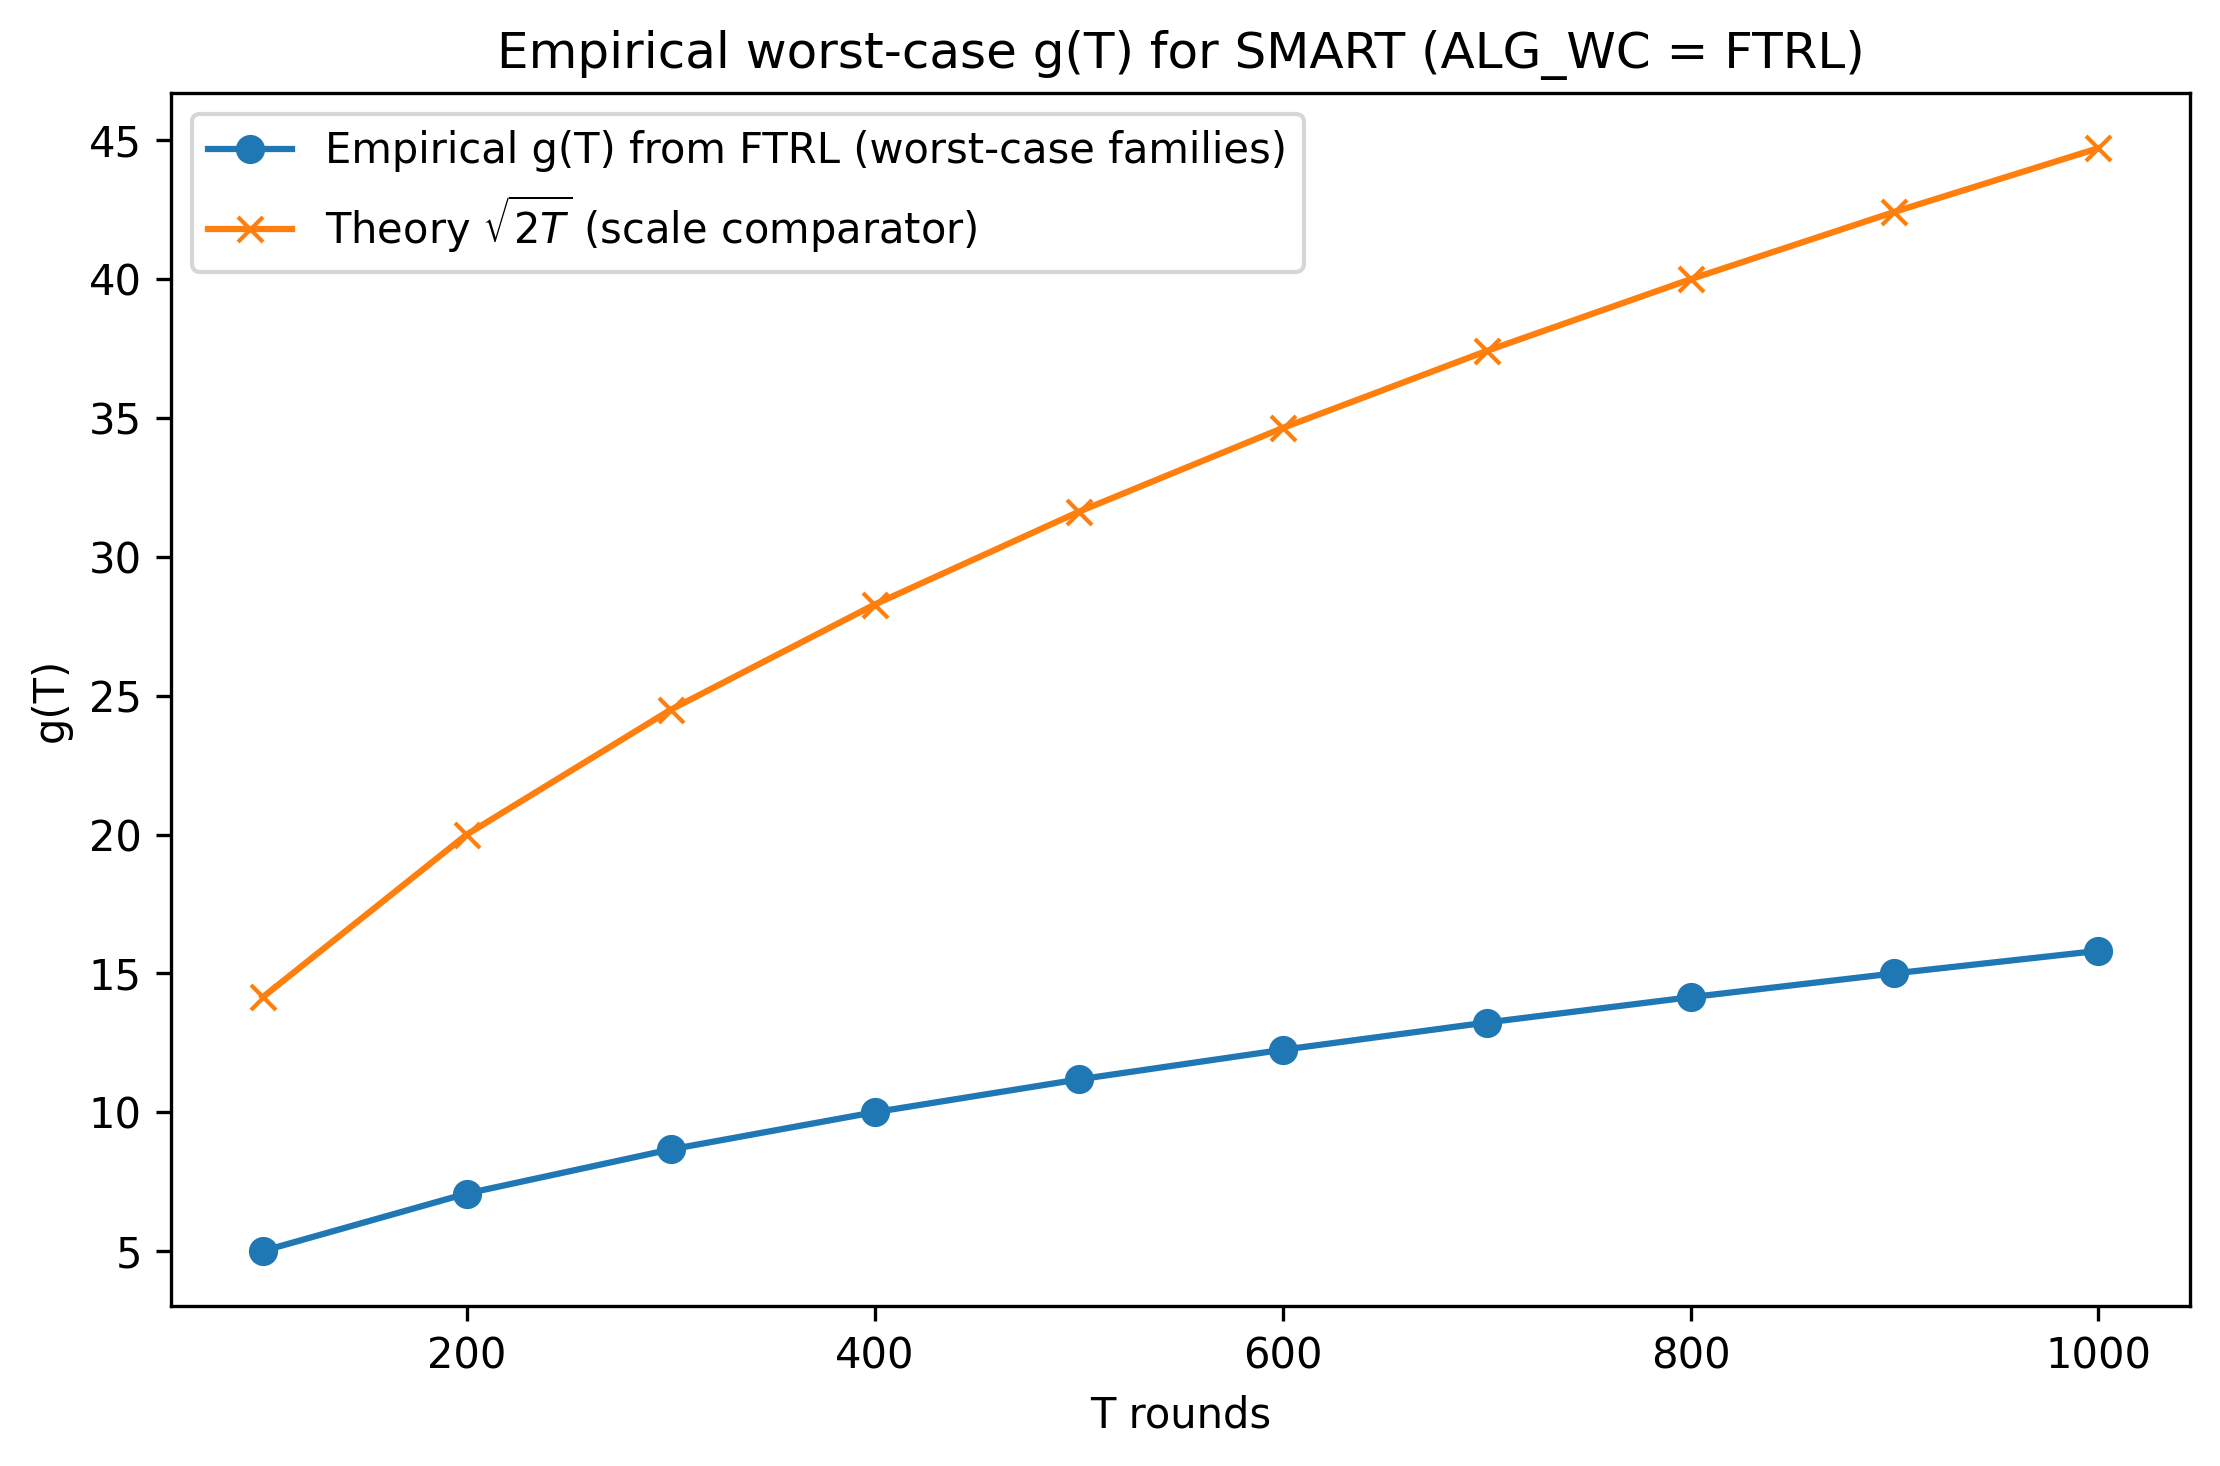
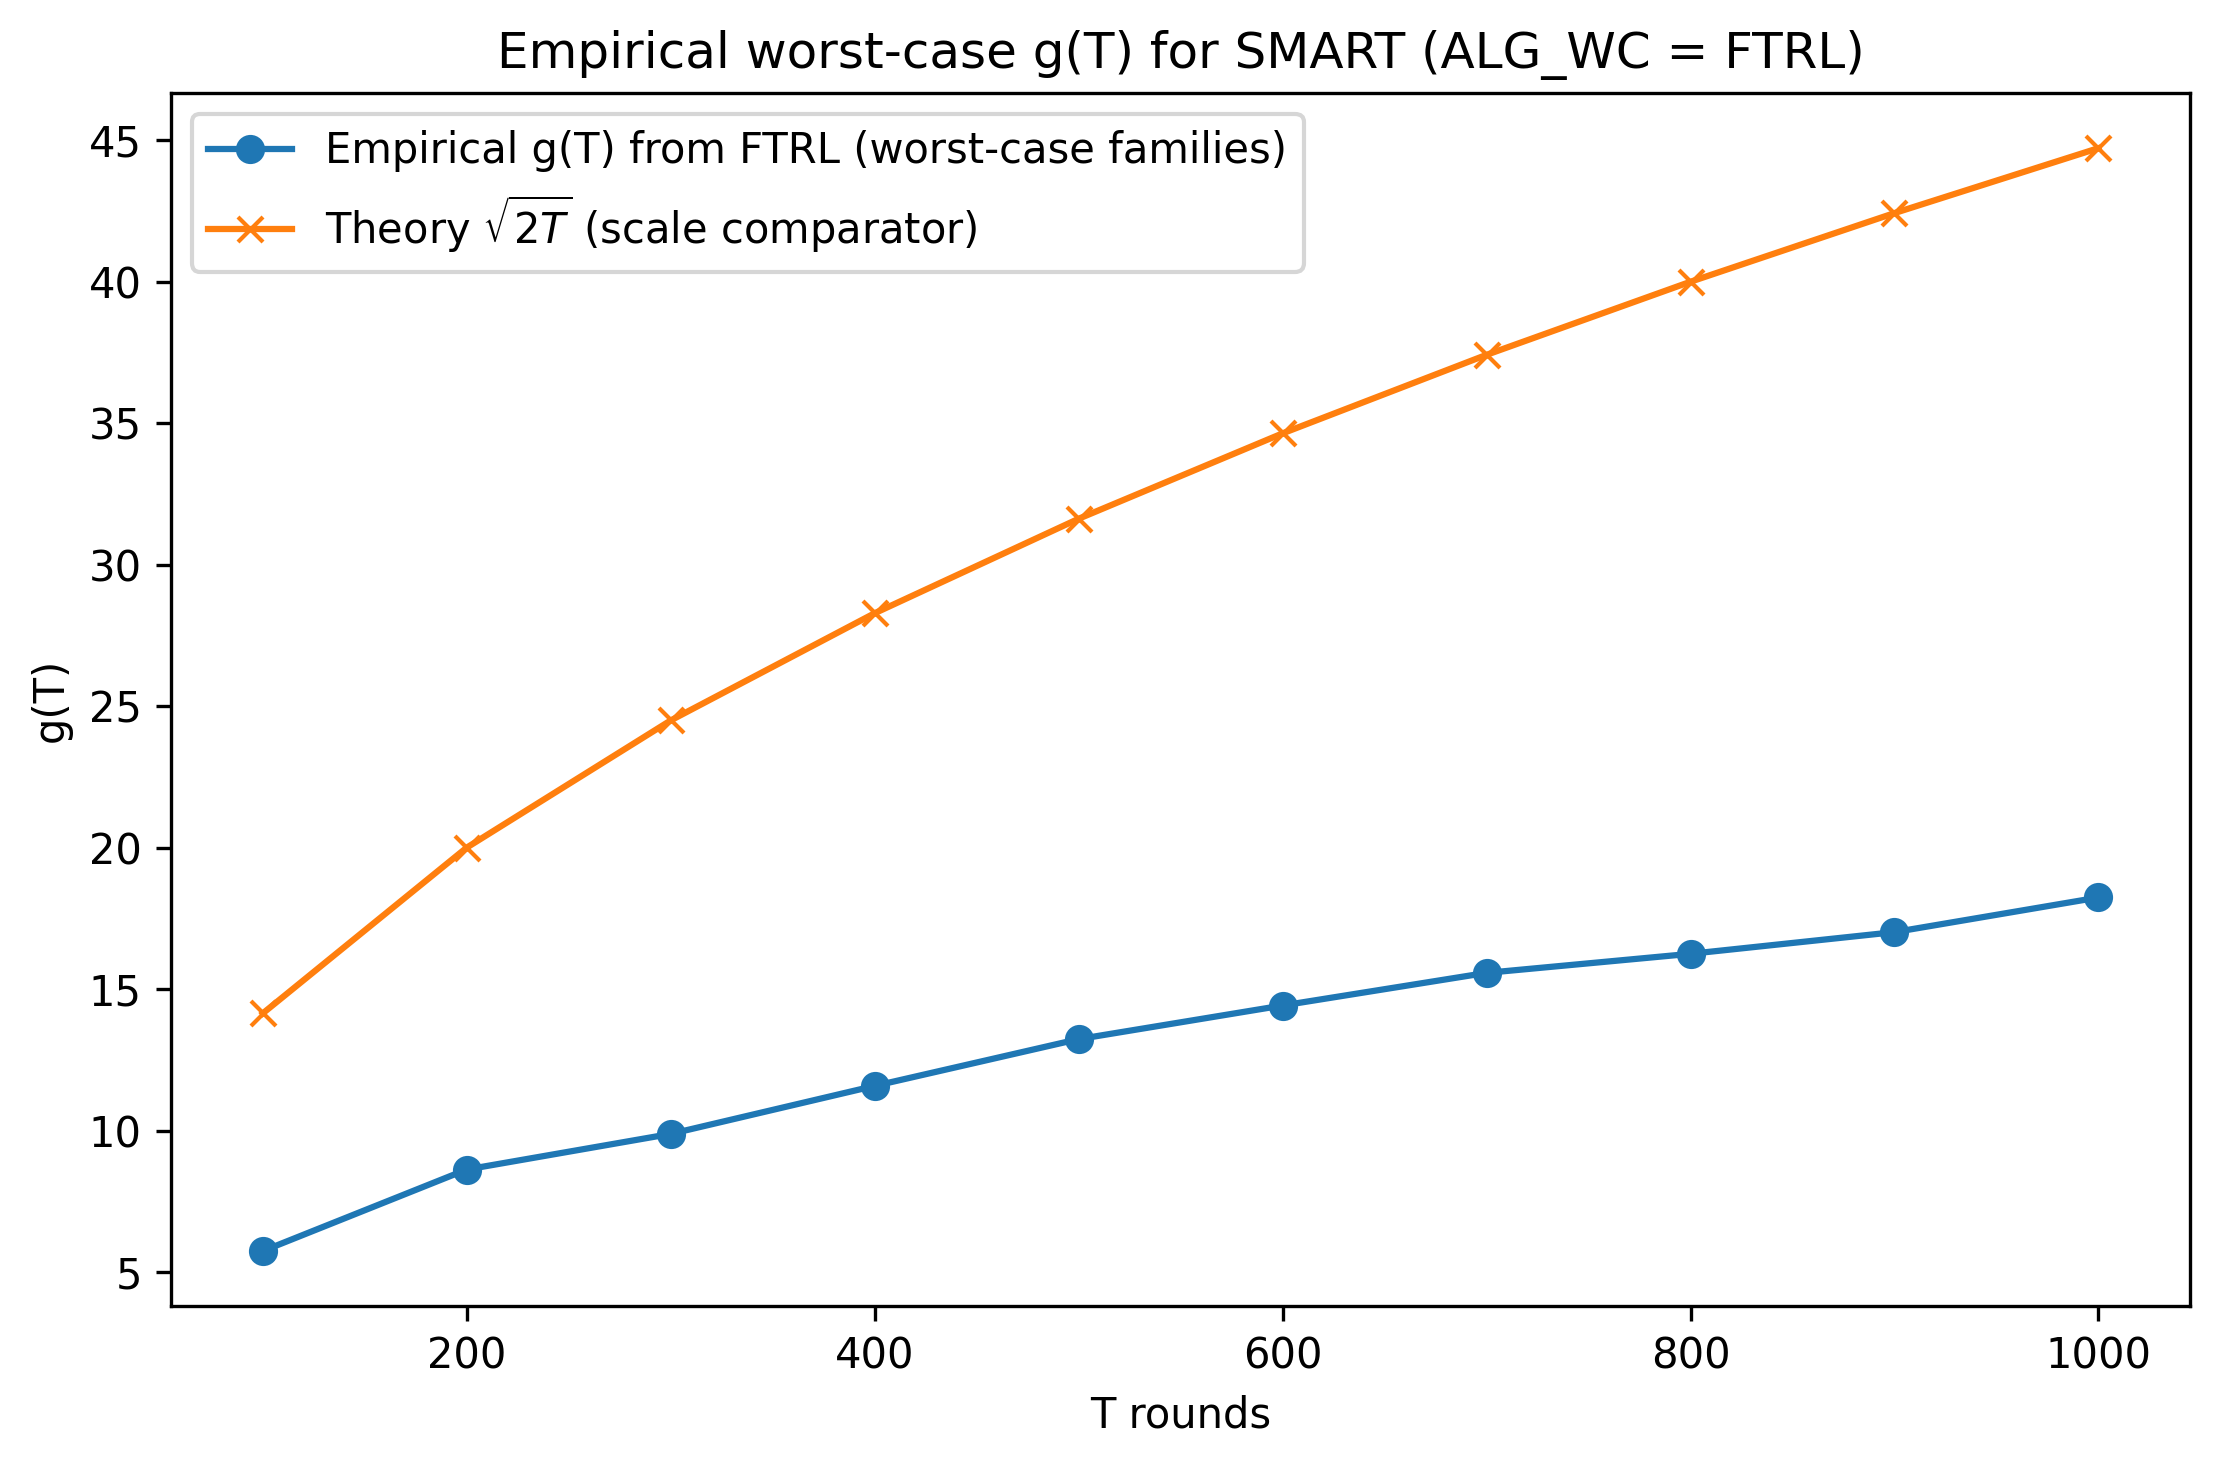
Refactor speedy_oco.py to introduce new random label generation methods and update two leaders sequence parameters. Remove deprecated diagnostic plotting function and related files. Update empirical evaluation runs for improved accuracy.

diff --git a/speedy_oco.py b/speedy_oco.py
@@ -266,64 +266,32 @@ def flip_sequence(T: int, d: int = 5, R: float = 1.0):
     u = np.zeros(d, dtype=np.float32)
     return z, y, u
 
-def orthogonal_hard_sequence(T: int, R: float = 1.0):
-    z = np.zeros((T, T), dtype=np.float32)
-    for t in range(T):
-        z[t, t] = R
-    y = np.ones(T, dtype=np.float32)
-    u = (np.ones(T, dtype=np.float32) / math.sqrt(T)).astype(np.float32)
-    return z, y, u
 
 
-# ==============================================================
-# Deterministic √t-gap (two leaders via blocks)
-# ==============================================================
+def make_random_labels_stream(*, d: int = 5, R: float = 1.0, run_seed: int = 0):
+    gen_u = _mix_seed(run_seed, 0, 11)
+    u = gen_u.standard_normal(d).astype(np.float32)
+    n = float(np.linalg.norm(u))
+    if n > 0:
+        u /= n
 
-def sqrt_gap_sequence(T: int, *, d: int = 1, R: float = 1.0):
-    y_list = []
-    k = 1
-    while len(y_list) < T:
-        m = k - 1  # -1s
-        n = k     # +1s
-        for _ in range(m):
-            if len(y_list) >= T: break
-            y_list.append(-1.0)
-        for _ in range(n):
-            if len(y_list) >= T: break
-            y_list.append(1.0)
-        k += 1
-    y = np.array(y_list, dtype=np.float32)
-    z = np.zeros((T, d), dtype=np.float32); z[:, 0] = R
-    u = np.zeros(d, dtype=np.float32)
-    return z, y, u
-
+    def sample(T: int, rep: int = 0):
+        gen = _mix_seed(run_seed, T, 13 + rep)
+        z = gen.standard_normal((T, d)).astype(np.float32)
+        norms = np.linalg.norm(z, axis=1, keepdims=True).astype(np.float32)
+        norms = np.maximum(norms, 1.0)
+        z = z / norms * R
+        y = gen.choice([-1.0, 1.0], size=T).astype(np.float32)
+        return z, y, u
+    return sample
 
 # ==============================================================
-# NEW: Stochastic √t-gap (Bernoulli drift)
-#   P(y_t=+1) = 1/2 + c / sqrt(t), clipped to [eps, 1-eps]
-#   Expected (# +1) − (# −1) ~ Θ(√t)
-# ==============================================================
-
-def bernoulli_sqrt_gap_sequence(T: int, *, c: float = 0.25, d: int = 1, R: float = 1.0, gen: np.random.Generator | None = None):
-    if gen is None:
-        gen = np.random.default_rng(0)
-    t = np.arange(1, T + 1, dtype=np.float64)
-    p = 0.5 + c / np.sqrt(t)
-    p = np.clip(p, 1e-6, 1 - 1e-6)
-    y = (gen.random(T) < p).astype(np.float32)
-    y = 2.0 * y - 1.0  # {0,1} -> {-1,+1}
-    z = np.zeros((T, d), dtype=np.float32); z[:, 0] = R
-    u = np.zeros(d, dtype=np.float32)
-    return z, y, u
-
-
-# ==============================================================
-# NEW: Two leaders (switching, no drift)
+# Two leaders (switching, no drift)
 #   Alternate fixed-length blocks of +1 and -1: +1…+1, -1…-1, +1…+1, ...
 #   No growing lead; tests adaptation to leader switches without contrived drift.
 # ==============================================================
 
-def switching_two_leaders_sequence(T: int, *, block_len: int = 20, d: int = 1, R: float = 1.0):
+def switching_two_leaders_sequence(T: int, *, block_len: int = 20, d: int = 5, R: float = 1.0):
     y = np.empty(T, dtype=np.float32)
     sign = 1.0
     idx = 0
@@ -382,18 +350,7 @@ def make_flip_stream(*, d: int = 5, R: float = 1.0, run_seed: int = 0):
         return flip_sequence(T, d=d, R=R)
     return sample
 
-def make_sqrt_gap_two_leaders_stream(*, d: int = 1, R: float = 1.0, run_seed: int = 0):
-    def sample(T: int, rep: int = 0):
-        return sqrt_gap_sequence(T, d=d, R=R)
-    return sample
-
-def make_bernoulli_sqrt_gap_stream(*, c: float = 0.25, d: int = 1, R: float = 1.0, run_seed: int = 0):
-    def sample(T: int, rep: int = 0):
-        gen = _mix_seed(run_seed, T, 31 + rep)
-        return bernoulli_sqrt_gap_sequence(T, c=c, d=d, R=R, gen=gen)
-    return sample
-
-def make_switching_two_leaders_stream(*, block_len: int = 20, d: int = 1, R: float = 1.0, run_seed: int = 0):
+def make_switching_two_leaders_stream(*, block_len: int = 20, d: int = 5, R: float = 1.0, run_seed: int = 0):
     def sample(T: int, rep: int = 0):
         return switching_two_leaders_sequence(T, block_len=block_len, d=d, R=R)
     return sample
@@ -403,30 +360,21 @@ def make_switching_two_leaders_stream(*, block_len: int = 20, d: int = 1, R: flo
 CASES: Dict[str, Callable[..., Callable[[int, int], Tuple[np.ndarray, np.ndarray, np.ndarray]]]] = {
     "Random i.i.d. (separable)":              lambda *, run_seed, R: make_random_iid_stream(d=5, R=R, run_seed=run_seed),
     "Noisy i.i.d. (Massart 10%)":             lambda *, run_seed, R: make_noisy_iid_stream(p=0.10, d=5, R=R, run_seed=run_seed),
-    # "Noisy i.i.d. (Massart 40%)":             lambda *, run_seed, R: make_noisy_iid_stream(p=0.40, d=5, R=R, run_seed=run_seed),
     "Label flips (worst-case)":               lambda *, run_seed, R: make_flip_stream(d=5, R=R, run_seed=run_seed),
-    # "Two leaders (√t gap)":                   lambda *, run_seed, R: make_sqrt_gap_two_leaders_stream(d=1, R=R, run_seed=run_seed),
-    # "Stochastic √t-gap (Bernoulli drift)":    lambda *, run_seed, R: make_bernoulli_sqrt_gap_stream(c=0.25, d=1, R=R, run_seed=run_seed),
-    "Two leaders (switching, no drift)":      lambda *, run_seed, R: make_switching_two_leaders_stream(block_len=20, d=1, R=R, run_seed=run_seed),
+    "Two leaders (switching, no drift)":      lambda *, run_seed, R: make_switching_two_leaders_stream(block_len=20, d=5, R=R, run_seed=run_seed),
 }
 
 # Case-specific averaging controls
 RUNS_BY_TITLE = {
     "Random i.i.d. (separable)":              48,
     "Noisy i.i.d. (Massart 10%)":             48,
-    # "Noisy i.i.d. (Massart 40%)":             48,
     "Label flips (worst-case)":                1,
-    # "Two leaders (√t gap)":                    1,   # deterministic
-    # "Stochastic √t-gap (Bernoulli drift)":    48,   # stochastic → average
     "Two leaders (switching, no drift)":       1,   # deterministic
 }
 REPLICATES_BY_TITLE = {
     "Random i.i.d. (separable)":              16,
     "Noisy i.i.d. (Massart 10%)":             20,
-    # "Noisy i.i.d. (Massart 40%)":             24,
     "Label flips (worst-case)":                1,
-    # "Two leaders (√t gap)":                    1,
-    # "Stochastic √t-gap (Bernoulli drift)":    16,
     "Two leaders (switching, no drift)":       1,
 }
 
@@ -440,17 +388,16 @@ def empirical_worst_case_thresholds(T_grid: np.ndarray,
                                     runs: int = 5,
                                     R: float = 1.0,
                                     base_seed: int = 0) -> Dict[int, float]:
-    adv_families = [flip_sequence, orthogonal_hard_sequence]
     g_emp: Dict[int, float] = {}
     for T in tqdm(T_grid, desc="Estimating g(T) across adversarial families"):
         worst = 0.0
-        for fam in adv_families:
-            for r in range(runs):
-                z, y, _ = fam(int(T), R=R)
-                u_star = comparator_ftl_hindsight(z, y, R)
-                reg_ftrl = simulate_alg(z, y, u_star, alg_flag=0, R=R, eta0=math.sqrt(2))
-                if reg_ftrl > worst:
-                    worst = reg_ftrl
+        for r in range(runs):
+            sampler = make_random_labels_stream(d=5, R=R, run_seed=base_seed + r)
+            z, y, _ = sampler(int(T), rep=0)
+            u_star = comparator_ftl_hindsight(z, y, R)
+            reg_ftrl = simulate_alg(z, y, u_star, alg_flag=0, R=R, eta0=math.sqrt(2))
+            if reg_ftrl > worst:
+                worst = reg_ftrl
         g_emp[int(T)] = worst
     return g_emp
 
@@ -528,40 +475,6 @@ def _plot_with_ci(ax, x, mean: np.ndarray, ci: np.ndarray, label: str):
 
 
 # ==============================================================
-# Diagnostic: visualize √t gap explicitly on the deterministic sequence
-# ==============================================================
-
-def make_sqrt_gap_diagnostic_plot(T: int, R: float = 1.0, filename: str = 'sqrt_gap_diagnostic.png'):
-    _, y, _ = sqrt_gap_sequence(T, d=1, R=R)
-
-    loss_pos = (y == -1.0).astype(np.float64)  # loss if always +1
-    loss_neg = (y ==  1.0).astype(np.float64)  # loss if always -1
-
-    cum_pos = np.cumsum(loss_pos)  # L_{+1}(t)
-    cum_neg = np.cumsum(loss_neg)  # L_{-1}(t)
-    gap     = cum_neg - cum_pos    # L_{-1}(t) - L_{+1}(t)
-
-    t = np.arange(1, T + 1, dtype=np.float64)
-    s = np.sqrt(t)
-    denom = float(np.dot(s, s))
-    c_hat = float(np.dot(gap, s) / denom) if denom > 0 else 0.0
-    fit   = c_hat * s
-
-    plt.figure(figsize=(8.0, 5.0))
-    plt.plot(t, cum_pos, label="Cumulative loss (always +1)")
-    plt.plot(t, cum_neg, label="Cumulative loss (always -1)")
-    plt.plot(t, gap,     label="Gap: L(-1) − L(+1)")
-    plt.plot(t, fit,     linestyle="--", label=f"Best-fit c·√t (c≈{c_hat:.3f})")
-    plt.title("Two leaders (√t gap): constant-expert losses and gap")
-    plt.xlabel("t")
-    plt.ylabel("Cumulative loss")
-    plt.legend()
-    plt.tight_layout()
-    plt.savefig(filename, dpi=300, bbox_inches='tight')
-    plt.close()
-
-
-# ==============================================================
 # Main
 # ==============================================================
 
@@ -571,7 +484,7 @@ if __name__ == "__main__":
     T_grid   = np.arange(100, 1100, 100, dtype=int)
 
     # 1) Empirically estimate g(T) from FTRL on adversarial families (near-minimax)
-    g_emp = empirical_worst_case_thresholds(T_grid, runs=5, R=R)
+    g_emp = empirical_worst_case_thresholds(T_grid, runs=100, R=R)
 
     # 2) Plot empirical g(T) vs theoretical sqrt(2T)
     plt.figure(figsize=(7.5, 5.0))
@@ -586,9 +499,6 @@ if __name__ == "__main__":
     plt.tight_layout()
     plt.savefig('empirical_g_T.png', dpi=300, bbox_inches='tight')
     plt.close()
-
-    # 2b) Diagnostic for the deterministic √t-gap sequence
-    make_sqrt_gap_diagnostic_plot(T=int(T_grid[-1]), R=R, filename='sqrt_gap_diagnostic.png')
 
     # 3) Evaluate across streams with per-T replicates
     n_cases = len(CASES)
